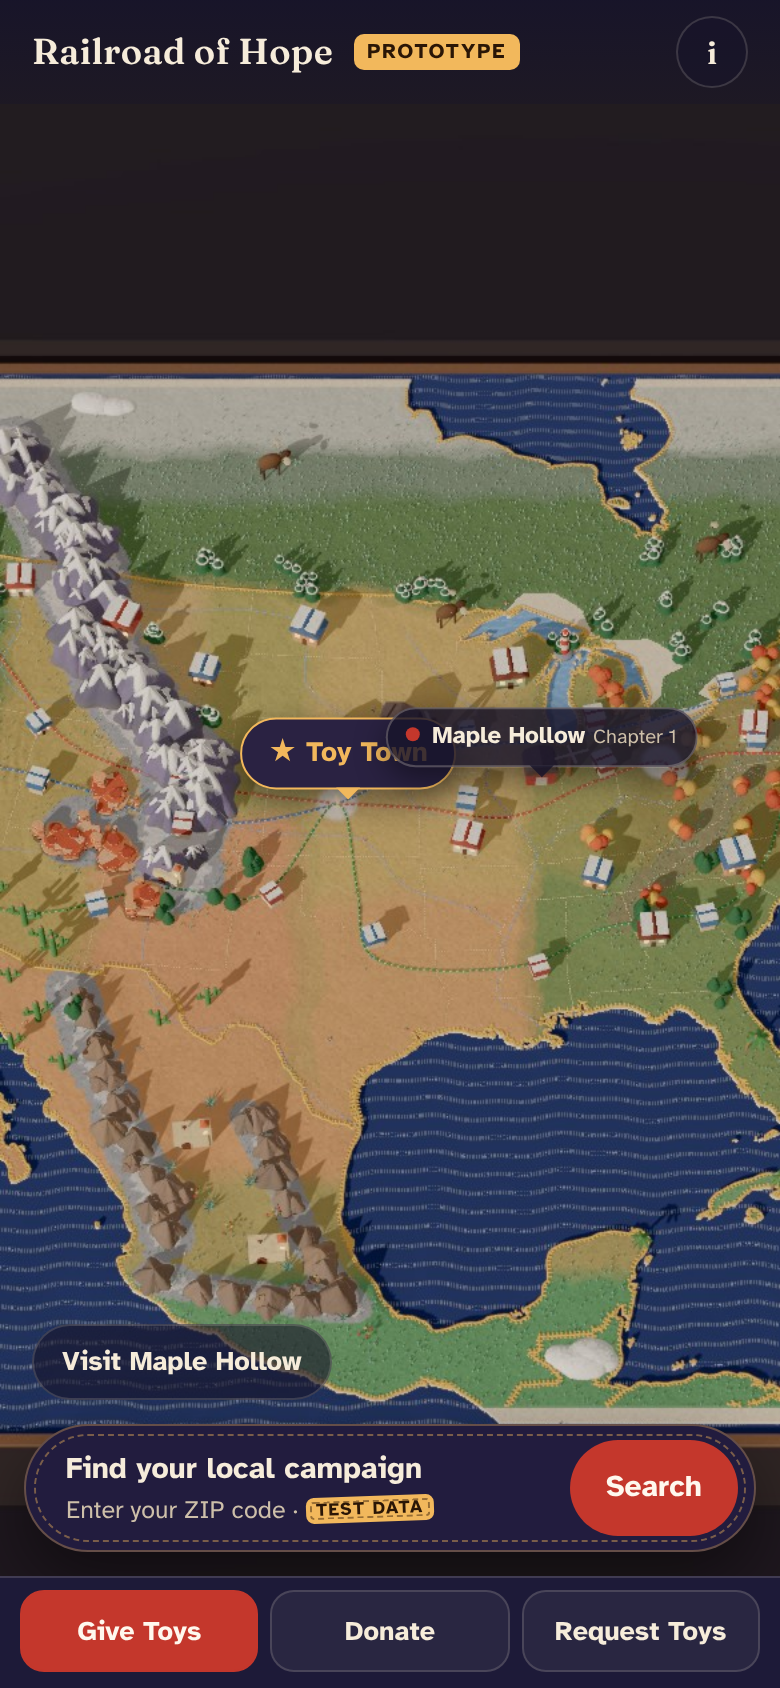
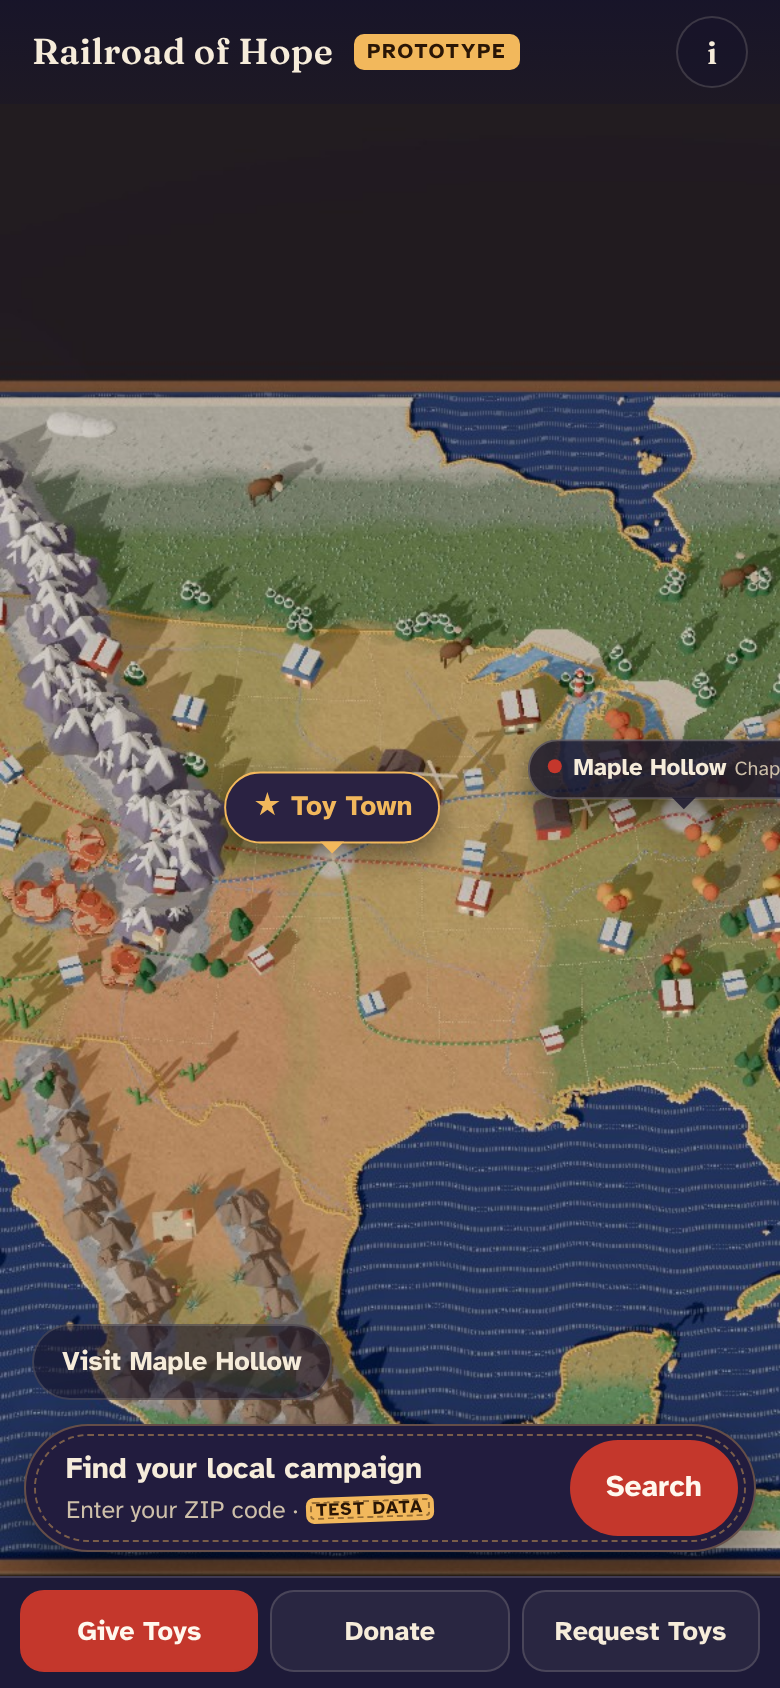
Concept renders: steeper camera for the phone landings so the board's far edge stays out of frame
Claude-Session: https://claude.ai/code/session_017tNAHcpaXsDX6pdqSWLTrX

diff --git a/docs/concepts/ux-directions/render.js b/docs/concepts/ux-directions/render.js
@@ -18,13 +18,13 @@ const R = [
   // Direction A, map-first: the map is the whole page; a small search pill, then a result card where the pill was
   { name: 'A_desktop_landing', w: 1280, h: 720 },
   { name: 'A_desktop_found', w: 1280, h: 720, zip: '00201', css: '#finder{top:84px!important;right:20px!important;width:340px!important;height:250px!important;max-height:none!important;overflow:hidden!important}' },
-  { name: 'A_phone_landing', w: 390, h: 844, zoom: 0.56, target: [10, -30] },   // closer than the app's portrait view: the country fills the screen
+  { name: 'A_phone_landing', w: 390, h: 844, zoom: 0.5, target: [30, -10], el: 1.25 },   // steeper, so the board's far edge stays out of frame   // closer than the app's portrait view: the country fills the screen
   { name: 'A_phone_found', w: 390, h: 844, zip: '00201', css: offFinder + bar(52) + bottomEdge(548) },      // result sheet from y 556
   { name: 'A_phone_details', w: 390, h: 400, zip: '00201', css: offFinder + bar(52) },   // only the band above the expanded sheet (from y 392) shows map
   // Direction B, integrated: the map is a region of the page beside / above a docked panel (rendered at that size)
   { name: 'B_desktop_landing', w: 920, h: 656, css: noBar + offFinder, zoom: 0.9 },
   { name: 'B_desktop_found', w: 920, h: 656, zip: '00201', css: noBar + offFinder },
-  { name: 'B_phone_landing', w: 390, h: 500, css: noBar + offFinder, zoom: 0.7, target: [10, -12] },
+  { name: 'B_phone_landing', w: 390, h: 500, css: noBar + offFinder, zoom: 0.62, target: [25, -5], el: 1.2 },
   { name: 'B_phone_found', w: 390, h: 500, zip: '00201', css: noBar + offFinder },
   { name: 'B_phone_details', w: 390, h: 340, zip: '00201', css: noBar + offFinder },
 ];
@@ -41,7 +41,7 @@ const R = [
     await p.evaluate(() => dispatchEvent(new Event('resize')));
     await p.waitForTimeout(1500);
     if (r.zoom) {   // a closer country view for the concept (the app's own national framing is unchanged)
-      await p.evaluate(({ z, t }) => { const g = window.__nat.rig; g.dist *= z; if (t) g.target.set(t[0], 0, t[1]); }, { z: r.zoom, t: r.target || null });
+      await p.evaluate(({ z, t, el }) => { const g = window.__nat.rig; g.dist *= z; if (t) g.target.set(t[0], 0, t[1]); if (el) g.el = el; }, { z: r.zoom, t: r.target || null, el: r.el || null });
       await p.waitForTimeout(6000);
     }
     if (r.zip) { await p.evaluate((z) => { document.getElementById('zip').value = z; document.querySelector('.finder-form').requestSubmit(); }, r.zip); await p.waitForSelector('.finder-card', { state: 'attached' }); }   // the finder may be off screen
